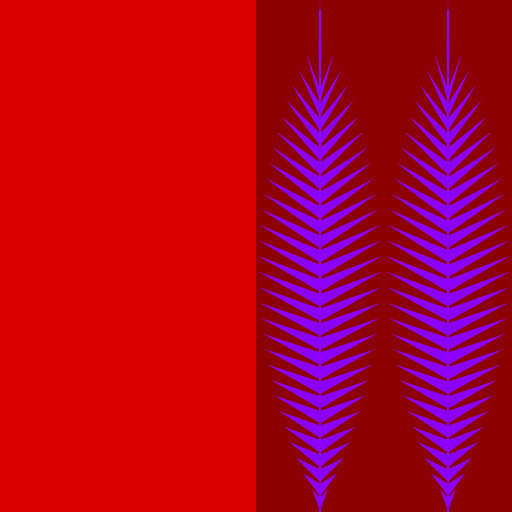
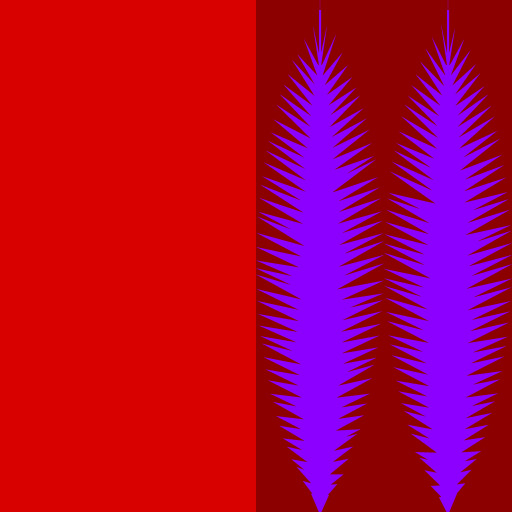
denser natural palm fronds, sturdier palms, darker big-leaf plants, gentler leaf lod

Changed region(s): [[0.5, 0.0625, 1.0, 1.0]]

diff --git a/tools/make_foliage.py b/tools/make_foliage.py
@@ -518,16 +518,19 @@ def leaf_sprite(w, h, seed, kind):
     if kind == "frond":
         cx = W / 2
         dr.line([(cx, H), (cx, H * 0.02)], fill=(96, 92, 50, 255), width=max(3, W // 60))
-        n = 34
+        n = 46
         for i in range(n):
             t = (i + 0.5) / n
             y = H * (1 - t * 0.97)
-            L = W * 0.48 * math.sin(math.pi * min(1.0, t * 1.15)) ** 0.7
+            L = W * 0.5 * math.sin(math.pi * min(1.0, t * 1.1)) ** 0.6
             for sd in (-1, 1):
-                tip = (cx + sd * L, y - H * 0.06 * (0.5 + t))
-                wd = H * 0.012
-                col = (int(rng.uniform(40, 62)), int(rng.uniform(96, 124)), int(rng.uniform(30, 46)), 255)
-                dr.polygon([(cx, y - wd), (cx, y + wd), tip], fill=col)
+                tip = (cx + sd * L, y - H * 0.05 * (0.5 + t) + rng.normal(0, H * 0.004))
+                wd = H * 0.016
+                g = rng.uniform(0.8, 1.1)
+                col = (int(56 * g + 18 * t), int(98 * g), int(34 * g), 255)
+                if rng.random() < 0.08:
+                    col = (120, 112, 52, 255)
+                dr.polygon([(cx, y - wd), (cx + sd * L * 0.15, y - wd * 1.3), tip, (cx, y + wd)], fill=col)
     else:
         cx = W / 2
         pts = []
@@ -536,15 +539,17 @@ def leaf_sprite(w, h, seed, kind):
             r = math.sin(math.pi * t) ** 0.8 * W * 0.46
             pts.append((cx + r, H * (1 - t)))
         pts += [(2 * cx - x, y) for x, y in pts[::-1]]
-        base = (int(rng.uniform(34, 50)), int(rng.uniform(86, 110)), int(rng.uniform(28, 40)), 255)
+        base = (int(rng.uniform(30, 40)), int(rng.uniform(64, 80)), int(rng.uniform(26, 34)), 255)
         dr.polygon(pts, fill=base)
-        dr.line([(cx, H), (cx, 0)], fill=(120, 140, 70, 255), width=max(3, W // 70))
+        inner = [(cx + (x - cx) * 0.7, y) for x, y in pts]
+        dr.polygon(inner, fill=(base[0] + 10, base[1] + 16, base[2] + 6, 255))
+        dr.line([(cx, H), (cx, 0)], fill=(96, 118, 60, 255), width=max(3, W // 70))
         for i in range(1, 12):
             t = i / 12
             y = H * (1 - t)
             for sd in (-1, 1):
                 dr.line([(cx, y), (cx + sd * W * 0.42 * math.sin(math.pi * t) ** 0.8, y - H * 0.08)],
-                        fill=(70, 110, 46, 255), width=max(2, W // 160))
+                        fill=(52, 84, 38, 255), width=max(2, W // 160))
         for i in range(5):
             y = H * rng.uniform(0.2, 0.8)
             sd = rng.choice((-1, 1))
@@ -553,7 +558,7 @@ def leaf_sprite(w, h, seed, kind):
     return im.resize((w, h), Image.LANCZOS)
 
 
-def palm(name, seed, src, bark, height=7.5, fronds=14):
+def palm(name, seed, src, bark, height=7.0, fronds=20):
     rng = np.random.default_rng(seed)
     tile = np.zeros((TILE, TILE, 3), np.float32)
     ntile = np.zeros_like(tile)
@@ -571,22 +576,22 @@ def palm(name, seed, src, bark, height=7.5, fronds=14):
         rtile[:, TILE // 2 + k * 256:TILE // 2 + (k + 1) * 256] = rm
     m = Mesh()
     bend = np.array([rng.normal(0, 1), 0, rng.normal(0, 1)])
-    bend = bend / np.linalg.norm(bend) * height * 0.22
+    bend = bend / np.linalg.norm(bend) * height * 0.1
     tp = [np.array([0.0, height * t, 0.0]) + bend * t * t for t in np.linspace(0, 1, 10)]
-    m.tube(tp, [0.22 - 0.07 * t for t in np.linspace(0, 1, 10)], 0.0, 0.5, 0.0, 1.0, segs=7,
+    m.tube(tp, [0.28 - 0.1 * t for t in np.linspace(0, 1, 10)], 0.0, 0.5, 0.0, 1.0, segs=7,
            sway=[0.15 * t * t for t in np.linspace(0, 1, 10)])
     top = tp[-1]
     for f in range(fronds):
         ang = 2 * math.pi * f / fronds + rng.uniform(-0.2, 0.2)
         out = np.array([math.cos(ang), 0, math.sin(ang)])
-        rise = rng.uniform(-0.15, 0.55)
-        L = rng.uniform(2.4, 3.2)
+        rise = rng.uniform(0.35, 0.9) if f % 2 else rng.uniform(-0.45, 0.05)
+        L = rng.uniform(2.6, 3.4)
         k = int(rng.integers(0, 2))
         rect = (0.5 + k * 0.25, 0.0, 0.75 + k * 0.25, 1.0)
         upv = out * 0.85 + np.array([0, rise, 0])
         upv /= np.linalg.norm(upv)
         right = np.array([-out[2], 0, out[0]])
-        m.card(top, right, upv, L * 0.42, L, rect, np.array([0, 1.0, 0]) + out * 0.3, sway=1.0, bend=0.35, rows=4)
+        m.card(top, right, upv, L * 0.55, L, rect, np.array([0, 1.0, 0]) + out * 0.3, sway=1.0, bend=0.45, rows=4)
     save_tile(ROOT / "loophole" / "data" / "tiles", name, tile, ntile, rtile)
     return m.save(name)
 
@@ -601,7 +606,7 @@ def bigleaf(name, seed, size=1.5, leaves=9):
     rtile = np.zeros_like(tile)
     for k in range(2):
         al, nm, rm = rgba_to_maps(leaf_sprite(T // 2, T, seed * 3 + k, "big"), 0.4)
-        tile[:, k * T // 2:(k + 1) * T // 2] = al
+        tile[:, k * T // 2:(k + 1) * T // 2] = al * np.array([0.78, 0.74, 0.62])
         ntile[:, k * T // 2:(k + 1) * T // 2] = nm
         rtile[:, k * T // 2:(k + 1) * T // 2] = rm
     m = Mesh()

diff --git a/loophole/shaders.py b/loophole/shaders.py
@@ -200,7 +200,7 @@ void main() {
     } else if (t5.z > 5.5) {
       lodk = mix(1.0, 0.35, fd);
     } else {
-      float kp = clamp(1.0 - (ld - uLOD.x * 1.5) / (uLOD.y * 1.6), 0.4, 1.0);
+      float kp = clamp(1.0 - (ld - uLOD.x * 1.5) / (uLOD.y * 1.6), 0.6, 1.0);
       if (hh > kp) {
         gl_Position = vec4(0.0, 0.0, 2.0, 1.0);
         return;
